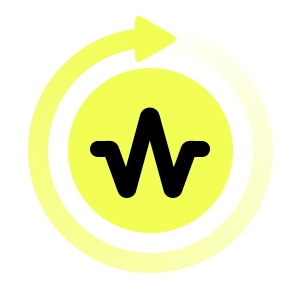
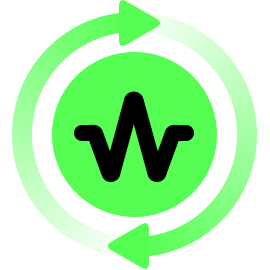
⚡ improved CI

diff --git a/src/modules/WaveSafe.ts b/src/modules/WaveSafe.ts
@@ -9,17 +9,24 @@ export class WaveSafe {
   async initialize() {
     this.tray = await Tray.create({
       title: "WaveSafe",
-      icon: await fs.readFile("src/assets/inactive.png"),
+      icon: await fs.readFile("src/assets/idle.png"),
       action: () => this.toggleActivation(),
       useTempDir: true,
     });
 
-    let main = this.tray.item("Power");
+    const intervall = this.tray.item("Intervall");
 
-    main.add(this.tray.item("on"), this.tray.item("on"));
+    intervall.add(
+      this.tray.item("onChange", {
+        checked: true,
+      }),
+      this.tray.item("30 sec"),
+      this.tray.item("1 min"),
+      this.tray.item("2 min"),
+    );
 
     let quit = this.tray.item("Quit", () => this.tray.kill());
-    this.tray.setMenu(main, quit);
+    this.tray.setMenu(intervall, this.tray.separator(), quit);
   }
 
   toggleActivation() {
@@ -27,12 +34,14 @@ export class WaveSafe {
     console.log(`State: ${this.activeState ? "running" : "stopped"}`);
   }
 
-  activate() {
+  async activate() {
+    this.tray.setIcon(await fs.readFile("src/assets/active.png"));
     this.tray.notify("WaveSafe", "RUNNING");
     this.activeState = true;
   }
 
-  deactivate() {
+  async deactivate() {
+    this.tray.setIcon(await fs.readFile("src/assets/inactive.png"));
     this.tray.notify("WaveSafe", "STOPPED");
     this.activeState = false;
   }
